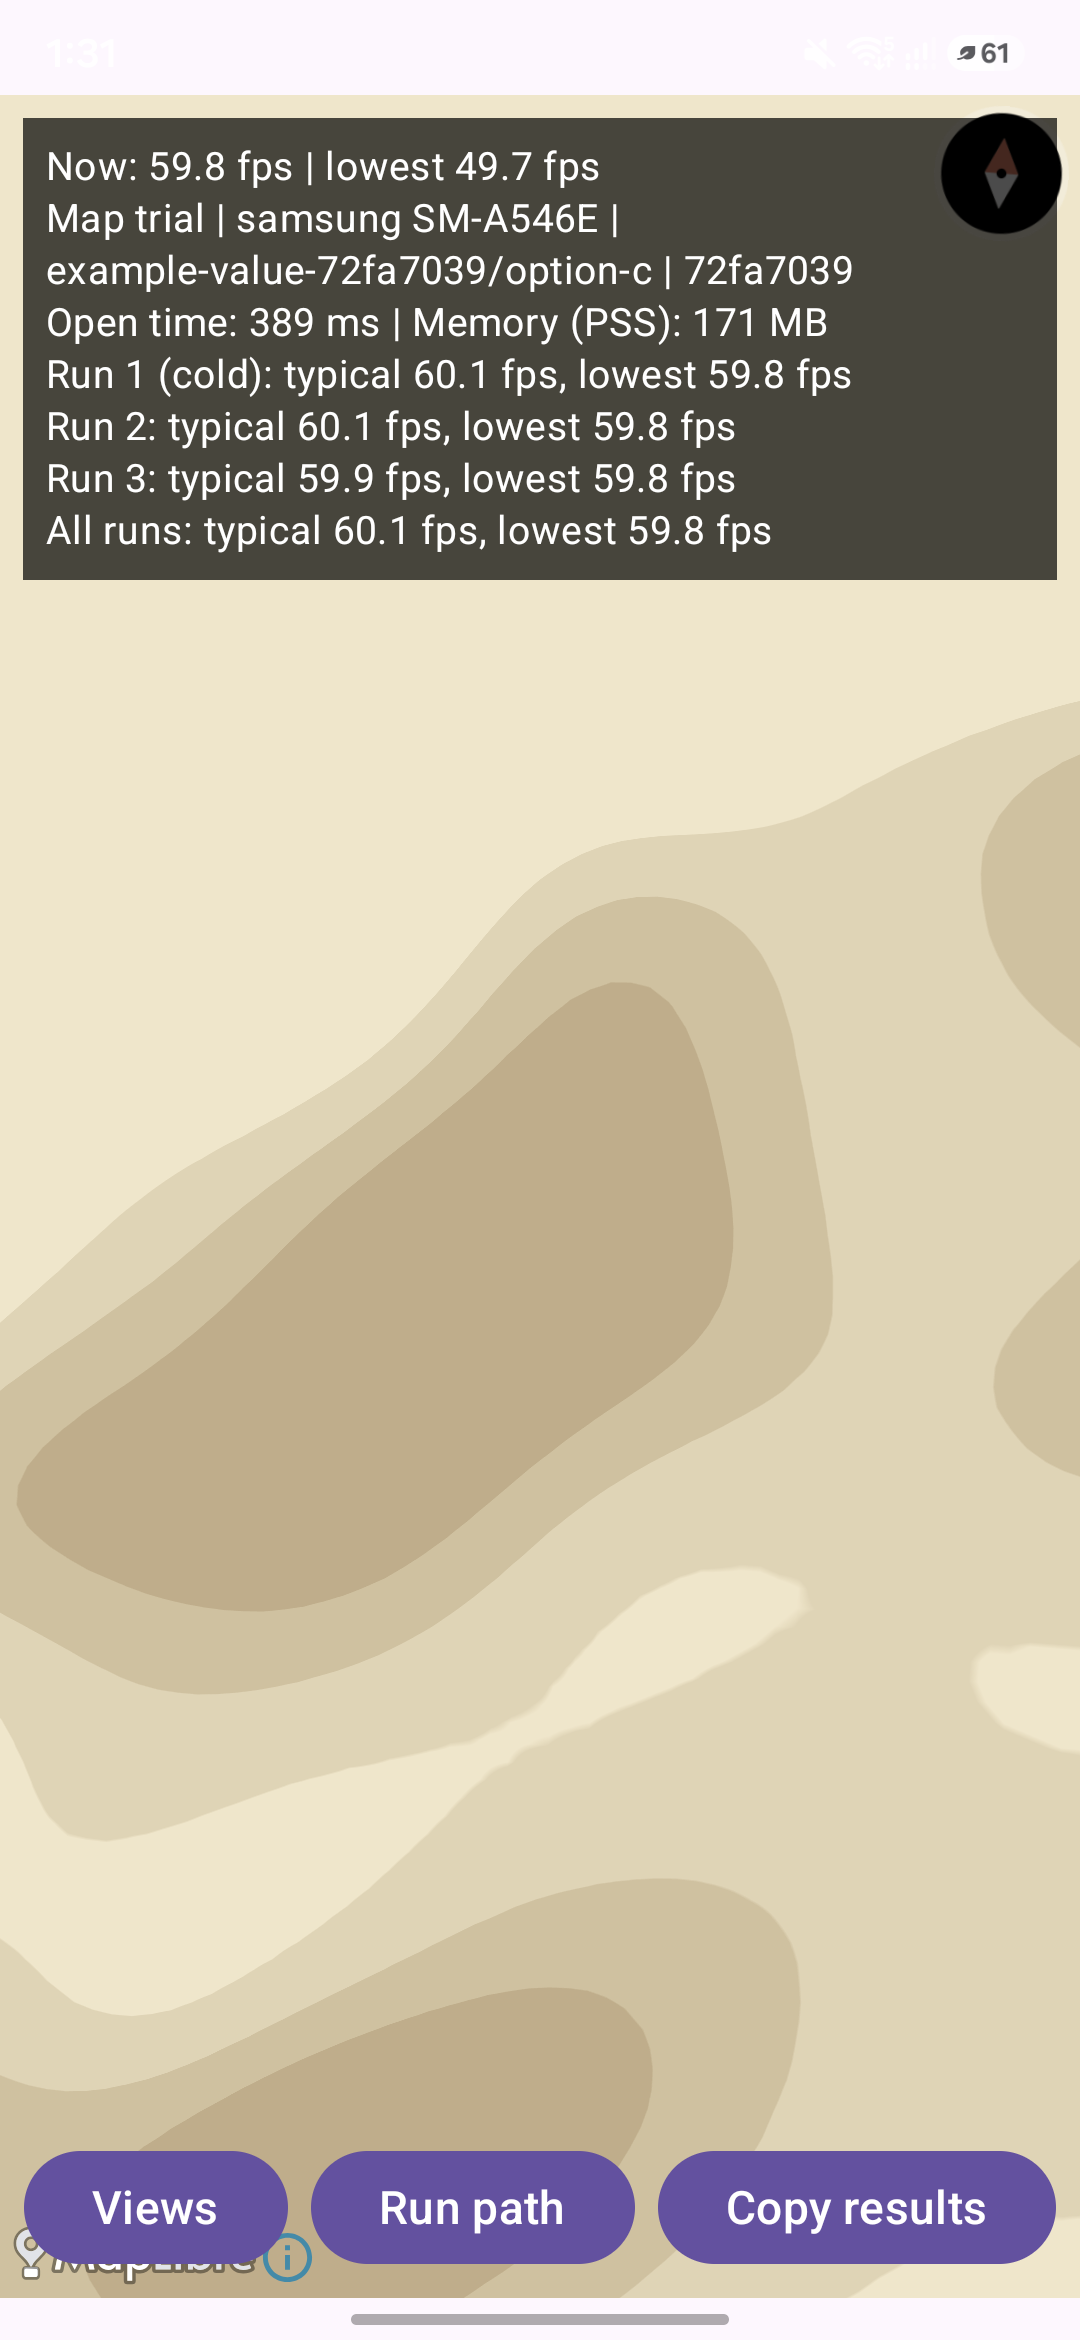
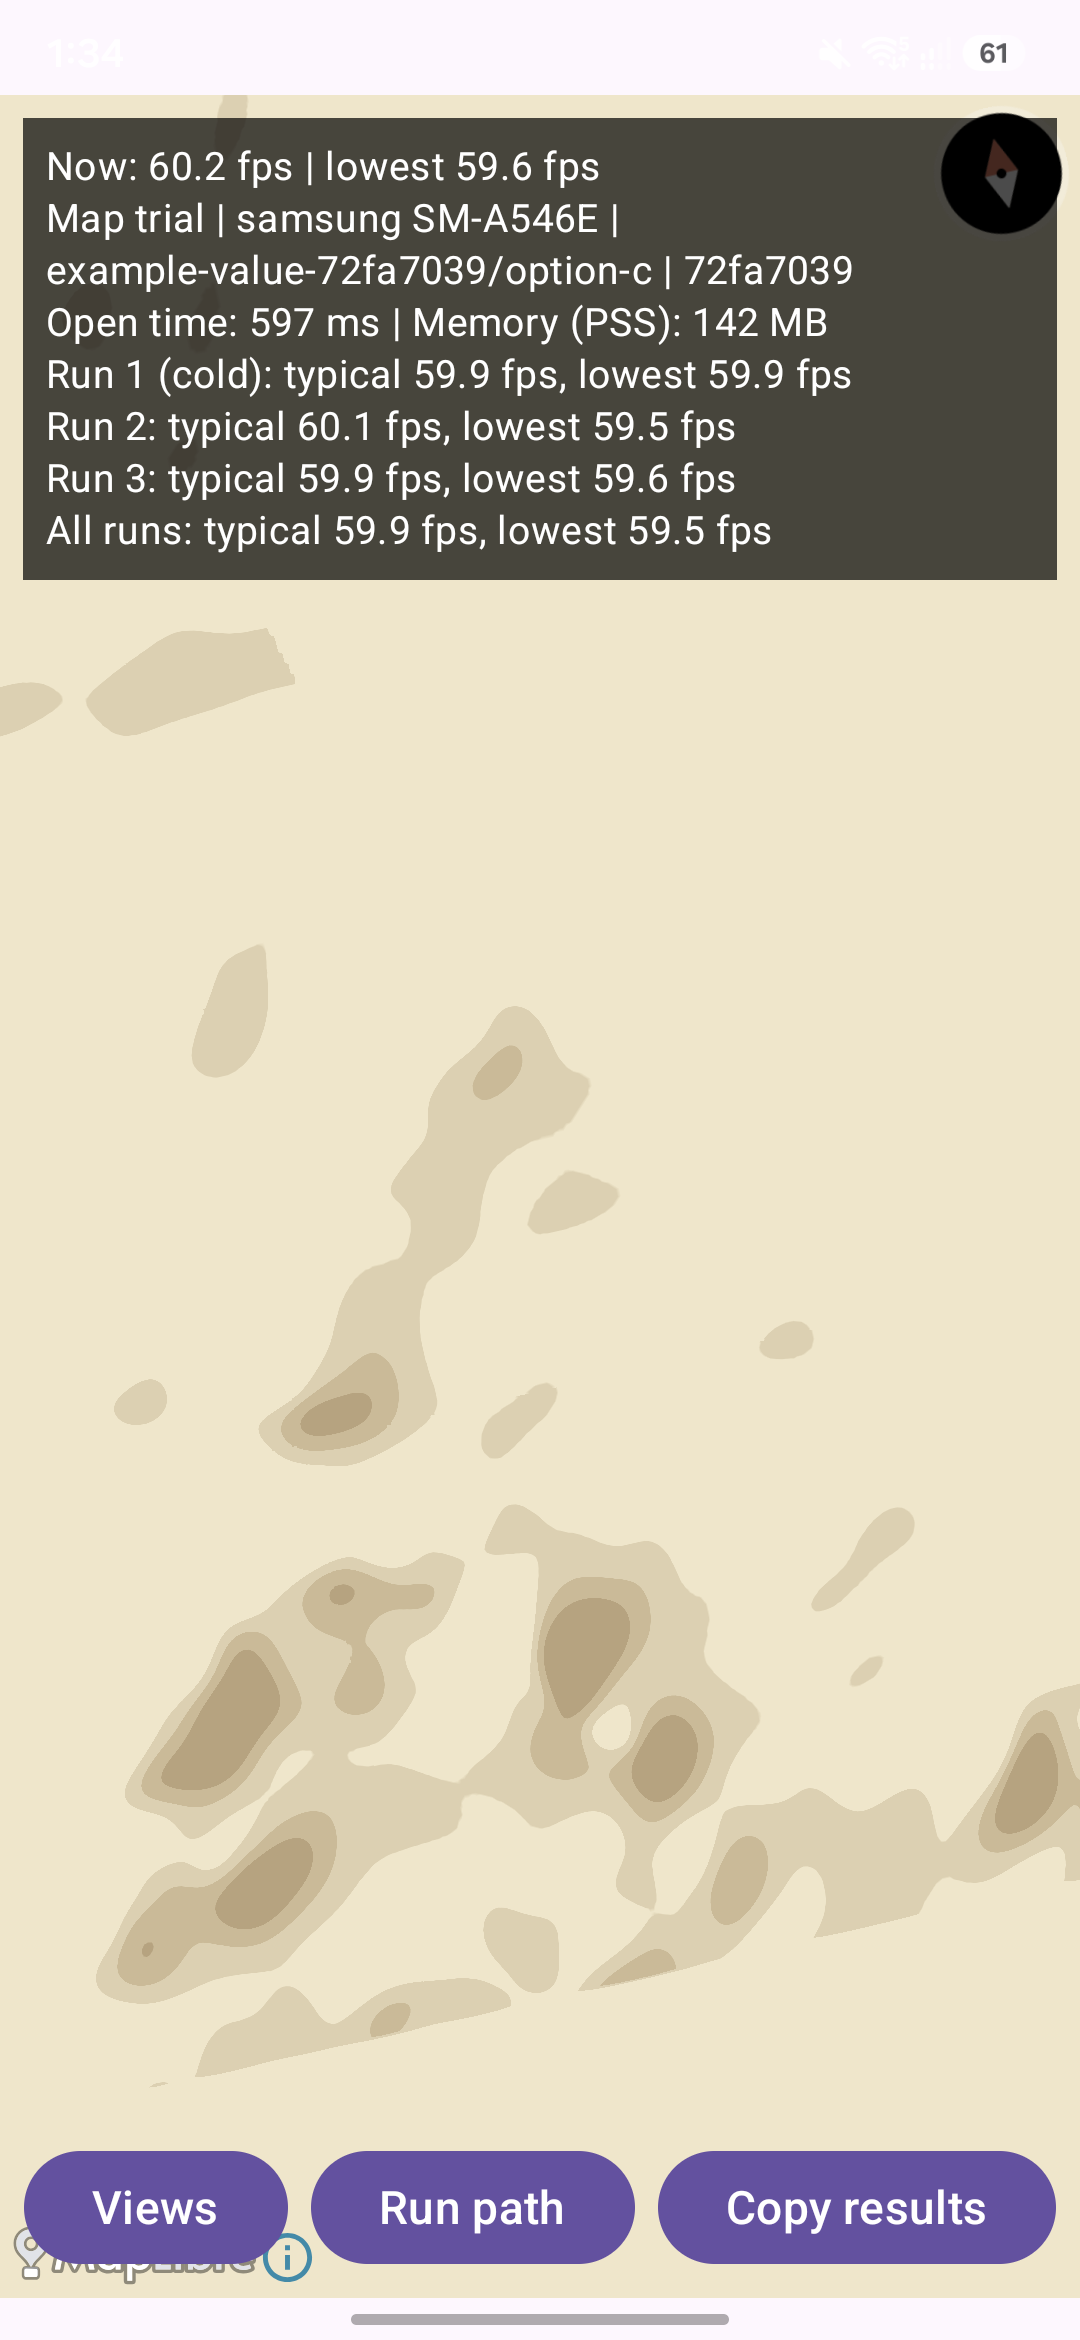
docs(map): add the second option (c) run and the maximum-zoom screenshot

diff --git a/docs/map-trial/step-1.md b/docs/map-trial/step-1.md
@@ -10,15 +10,15 @@ Result on the A54: it works. The synthetic example's painted variant was pushed 
 
 ## Check 2: MapLibre honours a raster source's `maxzoom` on `pmtiles://`
 
-Run on 2026-11-18 on the Galaxy A54 only; **not conclusive yet**. The example's camera path stops at MapLibre zoom 10, below the variant's `maxzoom` of 12 (shown from MapLibre zoom 11). On the option (c) view the map was then pinched in by hand ([screenshot](step-1-results/samsung-a54/option-c/a54-option-c-after-path2.png)) and the relief stayed drawn, enlarged with smooth edges, not blank. That is what honouring `maxzoom` looks like. But the overlay does not show the zoom, so it is not recorded that the view went past MapLibre zoom 11. To settle it, pinch in until the map stops zooming (the camera limit is zoom 14) and take a screenshot there.
+Run on 2026-11-18 on the Galaxy A54 only. Result: **passes, with the zoom estimated, not recorded**. The example's camera path stops at MapLibre zoom 10, below the variant's `maxzoom` of 12 (shown from MapLibre zoom 11). On the option (c) view the map was then pinched in by hand ([second run, screenshot](step-1-results/samsung-a54/option-c/a54-option-c-after-path4.png); a less enlarged screenshot from the first run is [first-run/a54-option-c-after-path2.png](step-1-results/samsung-a54/option-c/first-run/a54-option-c-after-path2.png)) and the relief stayed drawn, hugely enlarged, not blank. If `maxzoom` were ignored, MapLibre would ask for tiles above zoom 12, which the file does not hold, and the map would go blank. In the last screenshot the band edges show stair-steps about 6 dp wide, which are single source pixels, so each one covers about 6 times its size at MapLibre zoom 11. That puts the view near MapLibre zoom 13.5, within the camera limit of 14. This is an estimate: the overlay does not show the zoom, and it relies on the steps being single source pixels.
 
 ## Check 3: `color-relief` draws option (c)'s band edges sharp
 
-Run on 2026-11-18 on the Galaxy A54 only, with the synthetic example's value variant `example-value-72fa7039` (`terrarium-value`, PNG, `maxzoom` 12) on the option (c) view. Result, by my reading of the screenshots: **sharp**. After the path ([screenshot](step-1-results/samsung-a54/option-c/a54-option-c-after-path.png)) the relief is three flat bands over the land colour with hard edges, where the painted views show blurred shapes. Pinched in close ([screenshot](step-1-results/samsung-a54/option-c/a54-option-c-after-path2.png)) the edges between bands stay crisp, with no gradient between them. Three bands is what the ramp's non-zero alphas (0.2, 0.4 and 0.6) should give; the colours were not measured. This confirms on a device what MapLibre's source shows for paired `interpolate` stops. Whether the look is acceptable is the owner's judgement (trial item 3).
+Run on 2026-11-18 on the Galaxy A54 only, with the synthetic example's value variant `example-value-72fa7039` (`terrarium-value`, PNG, `maxzoom` 12) on the option (c) view. Result, by my reading of the screenshots: **sharp**. After the path ([first run](step-1-results/samsung-a54/option-c/first-run/a54-option-c-after-path.png)) the relief is three flat bands over the land colour with hard edges, where the painted views show blurred shapes. Pinched in close ([first run](step-1-results/samsung-a54/option-c/first-run/a54-option-c-after-path2.png), and [second run](step-1-results/samsung-a54/option-c/a54-option-c-after-path4.png)) the edges between bands stay crisp, with no gradient between them. Three bands is what the ramp's non-zero alphas (0.2, 0.4 and 0.6) should give; the colours were not measured. This confirms on a device what MapLibre's source shows for paired `interpolate` stops. Whether the look is acceptable is the owner's judgement (trial item 3).
 
 ## Check 4: `addOnDidFinishRenderingFrameListener` reports every frame
 
-Run on 2026-11-18 on the Galaxy A54 only. Indirect result: consistent, not proven. With the panel at its 120 Hz mode (`renderFrameRate` 120.00001, read with `adb shell dumpsys display`), the overlay's typical rate was 119.8 to 120.7 fps in all nine runs and the lowest published rate was 118.6 fps. A listener that dropped frames would read below the refresh rate while the map moved. The option (c) run was made with battery saver on, which held the panel at 60 Hz (`renderFrameRate` 60.0, `low_power` 1), and the overlay read 59.8 to 60.1 fps, again equal to the refresh rate. Counting the frames against an independent source, such as `dumpsys gfxinfo` over the same path, was not done. Not yet run on the other two devices.
+Run on 2026-11-18 on the Galaxy A54 only. Indirect result: consistent, not proven. With the panel at its 120 Hz mode (`renderFrameRate` 120.00001, read with `adb shell dumpsys display`), the overlay's typical rate was 119.8 to 120.7 fps in all nine runs and the lowest published rate was 118.6 fps. A listener that dropped frames would read below the refresh rate while the map moved. The two option (c) runs were made with the panel at 60 Hz (`renderFrameRate` 60.0; battery saver was on for the first run and off for the second, see the A54 run below), and the overlay read 59.5 to 60.1 fps, again equal to the refresh rate. Counting the frames against an independent source, such as `dumpsys gfxinfo` over the same path, was not done. Not yet run on the other two devices.
 
 ## Check 5: GDAL writes each tile atomically
 
@@ -86,7 +86,7 @@ Not yet run.
 
 ## Galaxy A54 run, 2026-11-18
 
-Device: Samsung SM-A546E, Android 16 (API 36), 120 Hz panel. App: `app.seerah.benchmark` 0.1.0, installed from the CI artifact `seerah-app-benchmark` beside the normal app. Data: the synthetic example's painted variant `example-painted-d891878a` and value variant `example-value-72fa7039` (Masirah window, `maxzoom` 12). **The option (c) run was made with battery saver on, which held the panel at 60 Hz, so its rates cannot be compared with the 120 Hz rows.** This is a mechanics check of phase 2: there is no base layer yet, so the screenshots show relief on a plain land colour, and nothing here judges the look or answers trial item 11 for the Oppo A55 (the device that decides it).
+Device: Samsung SM-A546E, Android 16 (API 36), 120 Hz panel. App: `app.seerah.benchmark` 0.1.0, installed from the CI artifact `seerah-app-benchmark` beside the normal app. Data: the synthetic example's painted variant `example-painted-d891878a` and value variant `example-value-72fa7039` (Masirah window, `maxzoom` 12). **The option (c) runs were made with the panel held at 60 Hz, so their rates cannot be compared with the 120 Hz rows.** The first had battery saver on. For the second it was off (`low_power` 0), but the panel was still locked to 60 Hz (the display's mode list showed only 60 Hz and `refresh_rate_mode` was 0, which is Standard "Motion smoothness"). Battery saver most likely lowered that setting and turning it off did not restore it. The setting has to be set back to Adaptive before option (c) can be compared at 120 Hz. This is a mechanics check of phase 2: there is no base layer yet, so the screenshots show relief on a plain land colour, and nothing here judges the look or answers trial item 11 for the Oppo A55 (the device that decides it).
 
 The camera path (one stop at MapLibre zoom 10, 4 s) ran three times per view. No reading carries the warm-process marker, so each open time comes from a fresh process:
 
@@ -95,14 +95,15 @@ The camera path (one stop at MapLibre zoom 10, 4 s) ran three times per view. No
 | zoom 12 | 369 ms | 117 MB | 120.2 / 118.6 fps | 120.0 / 120.0 | 120.0 / 119.5 | 120.0 / 118.6 fps |
 | zoom 11 | 326 ms | 116 MB | 120.2 / 120.0 fps | 120.5 / 119.5 | 120.7 / 120.0 | 120.5 / 119.5 fps |
 | option (a) | 311 ms | 117 MB | 120.0 / 119.0 fps | 120.5 / 120.0 | 119.8 / 119.5 | 120.0 / 119.0 fps |
-| option (c), at 60 Hz | 389 ms | 119 MB | 60.1 / 59.8 fps | 60.1 / 59.8 | 59.9 / 59.8 | 60.1 / 59.8 fps |
+| option (c), at 60 Hz, first run | 389 ms | 119 MB | 60.1 / 59.8 fps | 60.1 / 59.8 | 59.9 / 59.8 | 60.1 / 59.8 fps |
+| option (c), at 60 Hz, second run | 597 ms | 142 MB | 59.9 / 59.9 fps | 60.1 / 59.5 | 59.9 / 59.6 | 59.9 / 59.5 fps |
 
 Observations:
 
-- **Against trial item 11's rules for the devices other than the Oppo A55** (open time at most 1.5 s, typical rate equal to the screen's rate, lowest at least 45 fps, memory at most 200 MB): the three painted views meet all four on the A54 (open time 311 to 369 ms, typical 119.8 to 120.7 fps on a 120 Hz panel, lowest 118.6 fps or higher, memory 116 to 139 MB). Option (c) also meets them (open time 389 ms, typical 59.9 to 60.1 fps, which equals the panel's 60 Hz in battery saver, lowest 59.8 fps, memory 119 MB). It is not known whether option (c) differs from the painted views at 120 Hz: repeat it with battery saver off. The per-zoom view was not run, and the A54 is not the device that decides the trial.
-- **Option (c) while pinching:** after pinching in, the overlay's lowest rate fell to 49.7 fps and memory reached 171 MB ([screenshot](step-1-results/samsung-a54/option-c/a54-option-c-after-path2.png)). Both are inside the A54's limits (45 fps, 200 MB), but 171 MB after one zoom-in leaves little room under 200 MB, so the Oppo A55 is worth watching.
+- **Against trial item 11's rules for the devices other than the Oppo A55** (open time at most 1.5 s, typical rate equal to the screen's rate, lowest at least 45 fps, memory at most 200 MB): the three painted views meet all four on the A54 (open time 311 to 369 ms, typical 119.8 to 120.7 fps on a 120 Hz panel, lowest 118.6 fps or higher, memory 116 to 139 MB). Option (c) also meets them in both runs (open time 389 and 597 ms, typical 59.9 to 60.1 fps, which equals the panel's 60 Hz, lowest 59.5 fps or higher, memory 119 and 142 MB). The open time and memory differ between the two runs by 208 ms and 23 MB, and the cause is not known. It is not known whether option (c) differs from the painted views at 120 Hz: repeat it with Motion smoothness on Adaptive. The per-zoom view was not run, and the A54 is not the device that decides the trial.
+- **Option (c) while pinching:** in the first run, after pinching in, the overlay's lowest rate fell to 49.7 fps and memory reached 171 MB ([screenshot](step-1-results/samsung-a54/option-c/first-run/a54-option-c-after-path2.png)); in the second run, after pinching in close, they were 55.0 fps and 149 MB ([screenshot](step-1-results/samsung-a54/option-c/a54-option-c-after-path4.png)). All are inside the A54's limits (45 fps, 200 MB), but 171 MB after one zoom-in leaves little room under 200 MB, so the Oppo A55 is worth watching.
 - **Cancelling a path** ([screenshot](step-1-results/samsung-a54/a54-cancel-path.png)): a path was cancelled during a run on the zoom 11 view and the overlay showed "Path stopped", with "Copy results" disabled and no error. How it was cancelled is not recorded. This is the cancellation case that `SeerahMap` has no automated test for.
 - **Warm-process marker:** in the same screenshot the open time reads "311 ms (from warm process)", the value from the option (a) launch carried into a view opened in the same process, as designed.
 - **Memory:** 116 to 117 MB after a path; 139 MB in the cancelled-path screenshot.
 
-Evidence (screenshots before and after each path, and the copied results text): [step-1-results/samsung-a54/](step-1-results/samsung-a54/).
+Evidence (screenshots before and after each path, and the copied results text): [step-1-results/samsung-a54/](step-1-results/samsung-a54/). The first option (c) run is in `option-c/first-run/`; the second run's files are directly in `option-c/`.
